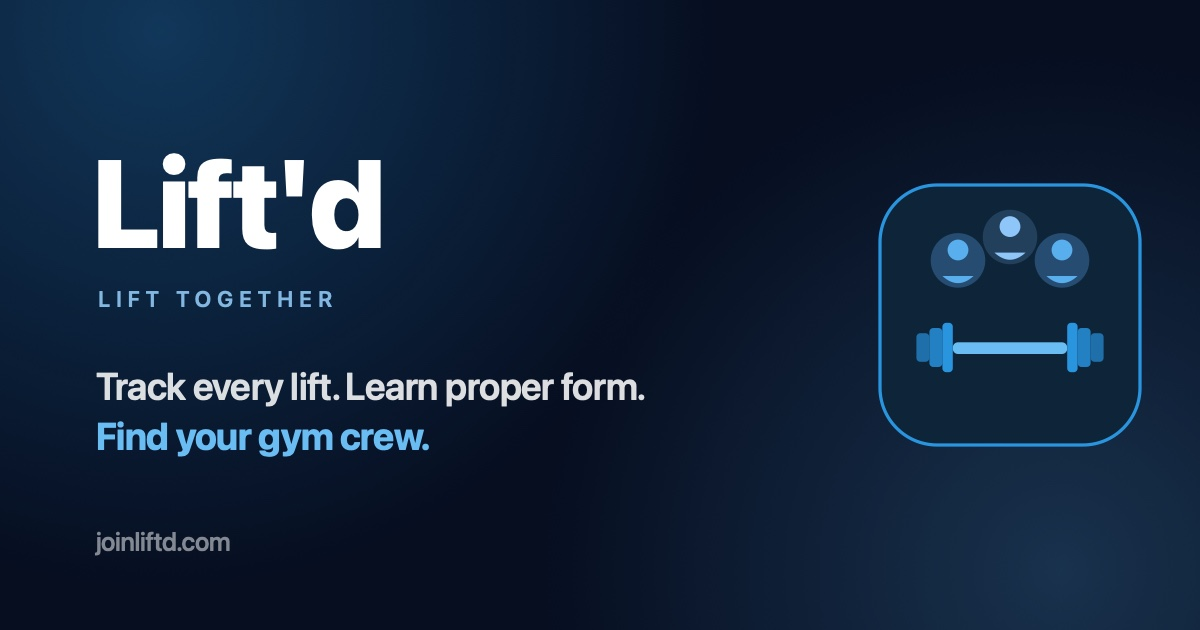
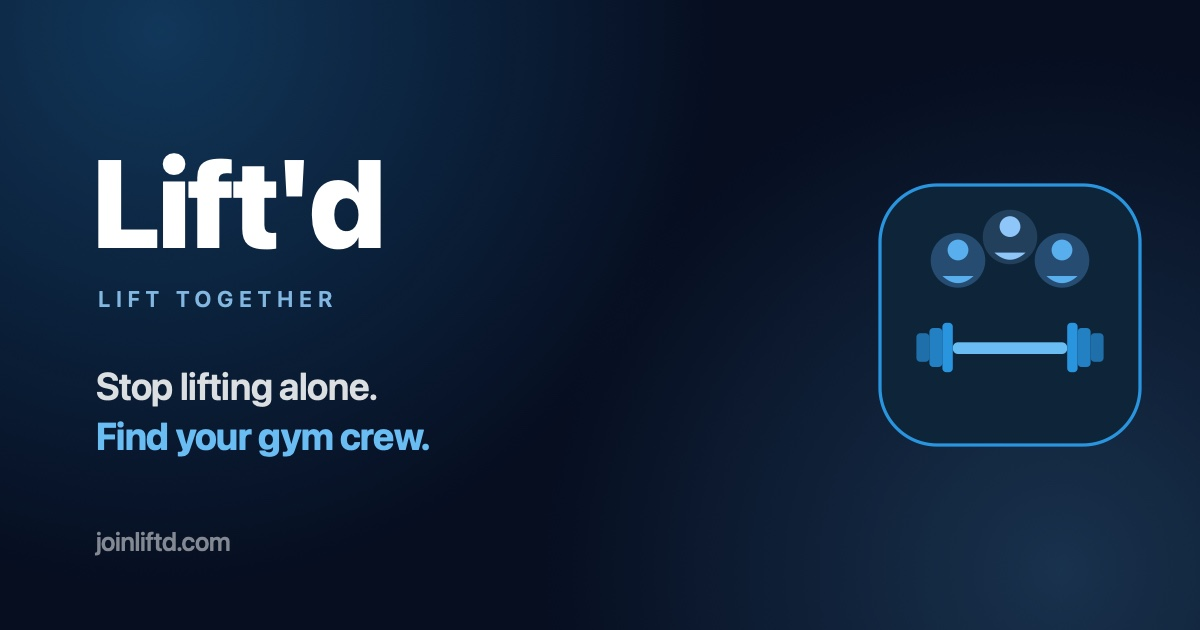
Rewrite homepage copy around gym community, clips and PRs
Same layout and styles; wording rewritten to convert new visitors:
- Hero leads with the problem ("Stop lifting alone in a gym full of
  people") and the unique features: gym community, short clips, PRs
- Hero phone mockup now shows the gym community (who's training,
  gym chat, shared PR) instead of a workout log
- Features reordered by what's unique; "founding member" framing for
  gyms not on Lift'd yet; FAQ answers sign-up objections and fixes the
  outdated data-storage answer
- New page title, meta description, Open Graph text and preview image

Changed region(s): [[0.0617, 0.573, 0.555, 0.6635]]

diff --git a/index.html b/index.html
@@ -3,8 +3,8 @@
   <head>
     <meta charset="UTF-8" />
     <meta name="viewport" content="width=device-width, initial-scale=1.0" />
-    <title>Lift'd — Free Workout Tracker &amp; Gym Community App</title>
-    <meta name="description" content="Lift'd is a free gym app: log workouts and PRs, track macros, learn proper form from short clips, and find workout partners who train at your gym." />
+    <title>Lift'd — Find Your Gym Crew | Gym Community &amp; Workout Clips</title>
+    <meta name="description" content="Stop lifting alone. Lift'd gives your gym its own community: see who's training now, find gym buddies, learn from short clips, and post your PRs. Free." />
     <link rel="canonical" href="https://joinliftd.com/" />
     <!-- Google Search Console ownership verification -->
     <meta name="google-site-verification" content="y0siNEIyiPphdUtBZZJhotXIbeI3lOD7ykhuzaxPVpg" />
@@ -15,20 +15,20 @@
     <!-- Link previews (iMessage, Discord, X, Facebook, etc.) -->
     <meta property="og:type" content="website" />
     <meta property="og:site_name" content="Lift'd" />
-    <meta property="og:title" content="Lift'd — Free Workout Tracker & Gym Community App" />
-    <meta property="og:description" content="Log workouts and PRs, track macros, learn proper form, and find workout partners at your gym." />
+    <meta property="og:title" content="Lift'd — Find Your Gym Crew" />
+    <meta property="og:description" content="Your gym's own community: see who's training now, learn from short clips, and post your PRs. Free." />
     <meta property="og:url" content="https://joinliftd.com/" />
     <meta property="og:image" content="https://joinliftd.com/og-image.jpg" />
     <meta property="og:image:width" content="1200" />
     <meta property="og:image:height" content="630" />
-    <meta property="og:image:alt" content="Lift'd — Track every lift. Find your gym crew." />
+    <meta property="og:image:alt" content="Lift'd — Stop lifting alone. Find your gym crew." />
     <meta name="twitter:card" content="summary_large_image" />
 
     <!-- Structured data: tells Google the site name and that this is a free fitness web app -->
     <script type="application/ld+json">
     [
       {"@context":"https://schema.org","@type":"WebSite","name":"Lift'd","alternateName":"Liftd","url":"https://joinliftd.com/"},
-      {"@context":"https://schema.org","@type":"WebApplication","name":"Lift'd","url":"https://joinliftd.com/","applicationCategory":"HealthApplication","operatingSystem":"Any (web browser)","browserRequirements":"Requires JavaScript","description":"Free workout tracker and gym community: log sets and personal records, track macros, learn exercise form from short clips, and find workout partners at your gym.","offers":{"@type":"Offer","price":"0","priceCurrency":"USD"}}
+      {"@context":"https://schema.org","@type":"WebApplication","name":"Lift'd","url":"https://joinliftd.com/","applicationCategory":"HealthApplication","operatingSystem":"Any (web browser)","browserRequirements":"Requires JavaScript","description":"Gym community app: every gym gets its own space to chat, see who's training right now, and find workout buddies, plus short clips to learn exercise form and one-tap posts to share your PRs.","offers":{"@type":"Offer","price":"0","priceCurrency":"USD"}}
     ]
     </script>
 
@@ -166,40 +166,40 @@
         <div class="glow" style="width:460px;height:460px;bottom:-200px;right:-120px;background:radial-gradient(circle,rgba(108,99,255,0.2),transparent 65%);"></div>
         <div class="wrap">
           <div>
-            <div class="eyebrow">● Free · Works in your browser</div>
-            <h1 id="hero-title">Track every lift. Learn proper form. <span class="grad-text">Find your gym crew.</span></h1>
-            <p class="lead">Lift'd is a free workout tracker and gym community in one app. Log your sets and macros, learn exercise form from short coaching clips, and connect with people who train at your gym.</p>
+            <div class="eyebrow">● Free · Made for your gym</div>
+            <h1 id="hero-title">Stop lifting alone in a gym full of people. <span class="grad-text">Find your crew.</span></h1>
+            <p class="lead">Lift'd gives your gym its own community. See who's training right now, chat with members, pick up form tips from short clips between sets, and post your PRs for the people who were there to see them.</p>
             <div class="cta-row">
-              <a class="btn btn-primary" href="app/#signup">Get started — it's free</a>
+              <a class="btn btn-primary" href="app/#signup">Find your gym — it's free</a>
               <a class="btn btn-ghost" href="app/#signin">Sign in</a>
             </div>
-            <p class="fine">No download needed. Works on iPhone, Android, and desktop.</p>
+            <p class="fine">No download needed · Works on iPhone, Android, and desktop</p>
           </div>
 
-          <div class="phone" role="img" aria-label="Lift'd workout screen showing this week's training days, today's totals, and a logged bench press">
+          <div class="phone" role="img" aria-label="Lift'd gym screen showing who's training now, a gym chat thread, and a PR shared with the crew">
             <div class="screen" aria-hidden="true">
-              <div class="s-title">Workout</div>
-              <div class="s-sub">Track your session</div>
+              <div class="s-title">Iron Valley Gym</div>
+              <div class="s-sub">🟢 6 people training now</div>
               <div class="s-card">
-                <div class="s-label">This week — tap a day</div>
+                <div class="s-label">Your training week</div>
                 <div class="days">
                   <div class="day on">M<b>5</b><i></i></div><div class="day on">T<b>6</b><i></i></div><div class="day">W<b>7</b><i></i></div><div class="day on">T<b>8</b><i></i></div><div class="day sel">F<b>9</b><i></i></div><div class="day">S<b>10</b><i></i></div><div class="day">S<b>11</b><i></i></div>
                 </div>
               </div>
               <div class="stats">
-                <div class="stat"><b>4</b><span>Exercises</span></div>
-                <div class="stat"><b>12</b><span>Sets</span></div>
-                <div class="stat"><b>8.4k</b><span>Volume</span></div>
+                <div class="stat"><b>6</b><span>Here now</span></div>
+                <div class="stat"><b>3</b><span>Friends</span></div>
+                <div class="stat"><b>#2</b><span>Leaderboard</span></div>
               </div>
               <div class="s-card">
-                <div class="s-label">Exercise 1 of 4 · Chest</div>
-                <div class="ex-name">Barbell Bench Press</div>
-                <div class="ex-meta">Top set 185 lbs · 3,515 lbs volume</div>
-                <div class="setl"><span>Set 1</span><b>135 lbs × 10</b></div>
-                <div class="setl"><span>Set 2</span><b>155 lbs × 8</b></div>
-                <div class="setl"><span>Set 3</span><b>185 lbs × 5</b></div>
+                <div class="s-label">#general · Gym chat</div>
+                <div class="ex-name">Leg day crew at 6? 🦵</div>
+                <div class="ex-meta">3 replies · 2 friends checked in</div>
+                <div class="setl"><span>@maya</span><b>I'm in 🙋♀</b></div>
+                <div class="setl"><span>@jordan</span><b>Count me in</b></div>
+                <div class="setl"><span>@sam</span><b>Here now 🟢</b></div>
               </div>
-              <div class="pr"><div style="font-size:20px">🏆</div><div><div class="t">NEW PERSONAL RECORD</div><div class="v">Bench Press · 185 lbs × 5</div></div></div>
+              <div class="pr"><div style="font-size:20px">🏆</div><div><div class="t">NEW PR · SHARED WITH YOUR CREW</div><div class="v">Bench Press · 185 lbs × 5</div></div></div>
             </div>
           </div>
         </div>
@@ -208,34 +208,34 @@
       <section id="features" aria-labelledby="features-title">
         <div class="wrap">
           <div class="section-head">
-            <div class="kicker">Features</div>
-            <h2 id="features-title">Everything you need at the gym, in one app</h2>
-            <p>Most fitness apps do one thing. Lift'd puts your workout log, nutrition, form tips, and gym friends in the same place.</p>
+            <div class="kicker">Why Lift'd</div>
+            <h2 id="features-title">Built around your gym, not just your workout</h2>
+            <p>Other fitness apps track you alone. Lift'd connects you with the people you already see at the gym, so you learn faster, show up more often, and have someone to celebrate your PRs with.</p>
           </div>
           <div class="features">
             <article class="feature">
-              <div class="f-icon">🏋</div>
-              <h3>Workout tracker</h3>
-              <p>Log every set with weight and reps, then flip back through any day of the week to see exactly what you lifted.</p>
-              <ul><li>170+ exercises across 10 categories</li><li>Automatic personal records</li><li>Weekly streaks and badges</li></ul>
-            </article>
-            <article class="feature">
-              <div class="f-icon">🥗</div>
-              <h3>Macro &amp; calorie tracker</h3>
-              <p>Search 170+ foods, log by the gram, and see your calories, protein, carbs, and fat against your goal.</p>
-              <ul><li>Cut, maintain, or bulk targets</li><li>Add your own custom foods</li><li>Last-7-days calorie trend</li></ul>
+              <div class="f-icon">👥</div>
+              <h3>Your gym's own community</h3>
+              <p>Every gym gets its own space on Lift'd. Chat with members, see who's training right now, and turn the familiar faces you nod at into workout buddies.</p>
+              <ul><li>Group chat with channels for your gym</li><li>See who's checked in right now</li><li>Connect when you both add each other</li></ul>
             </article>
             <article class="feature">
               <div class="f-icon">🎬</div>
-              <h3>Learn proper form</h3>
-              <p>Short-form clips with on-screen coaching cues, so you can check your technique between sets.</p>
-              <ul><li>Filter by muscle group and skill level</li><li>Save clips to watch at the gym</li><li>Built for beginners and experienced lifters</li></ul>
+              <h3>Learn between sets</h3>
+              <p>Short-form clips with on-screen coaching cues. Pick up a new lift or check your form in under a minute, right on the gym floor.</p>
+              <ul><li>Filter by muscle group and skill level</li><li>Save clips for your next session</li><li>Beginner-friendly, still useful for veterans</li></ul>
             </article>
             <article class="feature">
-              <div class="f-icon">👥</div>
-              <h3>Find workout partners</h3>
-              <p>Join your gym's community to chat, see who's training right now, and add friends to lift with.</p>
-              <ul><li>Gym group chats and channels</li><li>See who's at your gym now</li><li>Friends only connect when both add each other</li></ul>
+              <div class="f-icon">🏆</div>
+              <h3>Post your gains</h3>
+              <p>Hit a PR? Post it in one tap so your gym crew can hype you up, and see where you stack up on your gym's weekly leaderboard.</p>
+              <ul><li>One-tap PR posts from your workout log</li><li>Weekly leaderboard for your gym</li><li>Badges for real milestones</li></ul>
+            </article>
+            <article class="feature">
+              <div class="f-icon">🏋</div>
+              <h3>Track every lift</h3>
+              <p>Log your sets and your PRs, streak, and leaderboard spot update automatically. Macros too, if you count them.</p>
+              <ul><li>170+ exercises across 10 categories</li><li>Day-by-day workout history</li><li>Macro tracking with 170+ foods</li></ul>
             </article>
           </div>
         </div>
@@ -245,12 +245,12 @@
         <div class="wrap">
           <div class="section-head">
             <div class="kicker">How it works</div>
-            <h2 id="how-title">Start logging in under a minute</h2>
+            <h2 id="how-title">From stranger to gym crew in three steps</h2>
           </div>
           <div class="steps">
-            <div class="step"><h3>Create a free account</h3><p>Pick a username and your experience level. Your profile starts clean, and every stat on it comes from your own training.</p></div>
-            <div class="step"><h3>Log workouts and meals</h3><p>Finish your sets, tap save, and they're filed under today. Your PRs, streak, and badges update automatically.</p></div>
-            <div class="step"><h3>Join your gym's community</h3><p>Find your gym, hop in the chat, and add the people you train next to as friends.</p></div>
+            <div class="step"><h3>Find your gym</h3><p>Search for your gym and join in one tap. Not on Lift'd yet? Add it in seconds and become its founding member.</p></div>
+            <div class="step"><h3>Check in when you arrive</h3><p>Tap “I'm here” to let your gym know you're training, see who else is in, and add workout buddies.</p></div>
+            <div class="step"><h3>Learn, lift, post</h3><p>Watch a quick clip between sets, log your lifts, and post your PRs for your crew to see.</p></div>
           </div>
         </div>
       </section>
@@ -262,11 +262,11 @@
             <h2 id="faq-title">Questions, answered</h2>
           </div>
           <div class="faq">
-            <details><summary>Is Lift'd free?</summary><p>Yes. Lift'd is free to use. Create an account and start logging workouts and meals right away.</p></details>
-            <details><summary>Do I need to download an app?</summary><p>No. Lift'd runs in your web browser on your phone or computer. On iPhone, open it in Safari and tap Share → Add to Home Screen to get an app icon. Native iPhone and Android apps are planned.</p></details>
-            <details><summary>Is Lift'd good for beginners?</summary><p>Yes. You choose your experience level when you sign up, the exercise library covers every major muscle group, and form clips can be filtered to beginner level.</p></details>
-            <details><summary>How does finding workout partners work?</summary><p>Join your gym's community to chat with other members and see who's training right now. You can add people as friends, and you're only connected once they add you back.</p></details>
-            <details><summary>Where is my data saved?</summary><p>For now, your account and history are saved in the browser on the device you sign up with, and your password is stored as a secure hash, never as plain text. Syncing across devices is coming soon.</p></details>
+            <details><summary>Is Lift'd free?</summary><p>Yes, completely. Create an account, join your gym, and start connecting in under a minute.</p></details>
+            <details><summary>Do I need to download an app?</summary><p>No. Lift'd runs in your browser on any phone or computer. On iPhone, open it in Safari and tap Share → Add to Home Screen for an app icon. Native iPhone and Android apps are on the way.</p></details>
+            <details><summary>My gym isn't on Lift'd yet. Now what?</summary><p>Start it! Add your gym in a few seconds and you'll get an invite link to share wherever your gym's people already are: group chats, Instagram, or the folks you see every day. Every gym's community starts with one founding member.</p></details>
+            <details><summary>I'm new to lifting. Is Lift'd for me?</summary><p>Definitely. Short clips show you how to do each lift, you can filter them to beginner level, and your gym's community is a place to ask questions and find someone to train with.</p></details>
+            <details><summary>Is my information private and safe?</summary><p>Your workouts and food log are private to you. Your profile, posts, and gym chat are visible to signed-in members, and you can report or block anyone in a tap.</p></details>
           </div>
         </div>
       </section>
@@ -274,9 +274,9 @@
       <section aria-labelledby="cta-title">
         <div class="wrap">
           <div class="cta-band">
-            <h2 id="cta-title">Your next PR starts here</h2>
-            <p>Track your training, dial in your nutrition, and meet the people you lift with.</p>
-            <div class="cta-row"><a class="btn btn-primary" href="app/#signup">Create your free account</a><a class="btn btn-ghost" href="app/#signin">Sign in</a></div>
+            <h2 id="cta-title">Your gym's crew starts with you</h2>
+            <p>Join your gym on Lift'd, or bring it on board and invite the people you lift with. It's free.</p>
+            <div class="cta-row"><a class="btn btn-primary" href="app/#signup">Find your gym — it's free</a><a class="btn btn-ghost" href="app/#signin">Sign in</a></div>
           </div>
         </div>
       </section>
